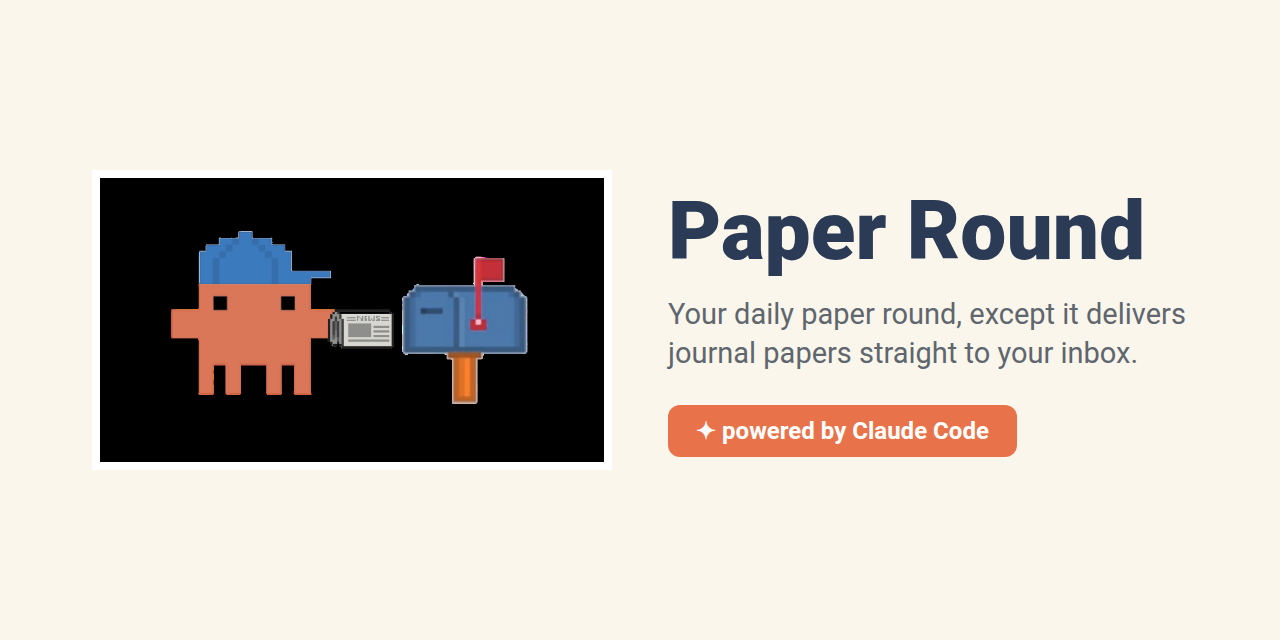
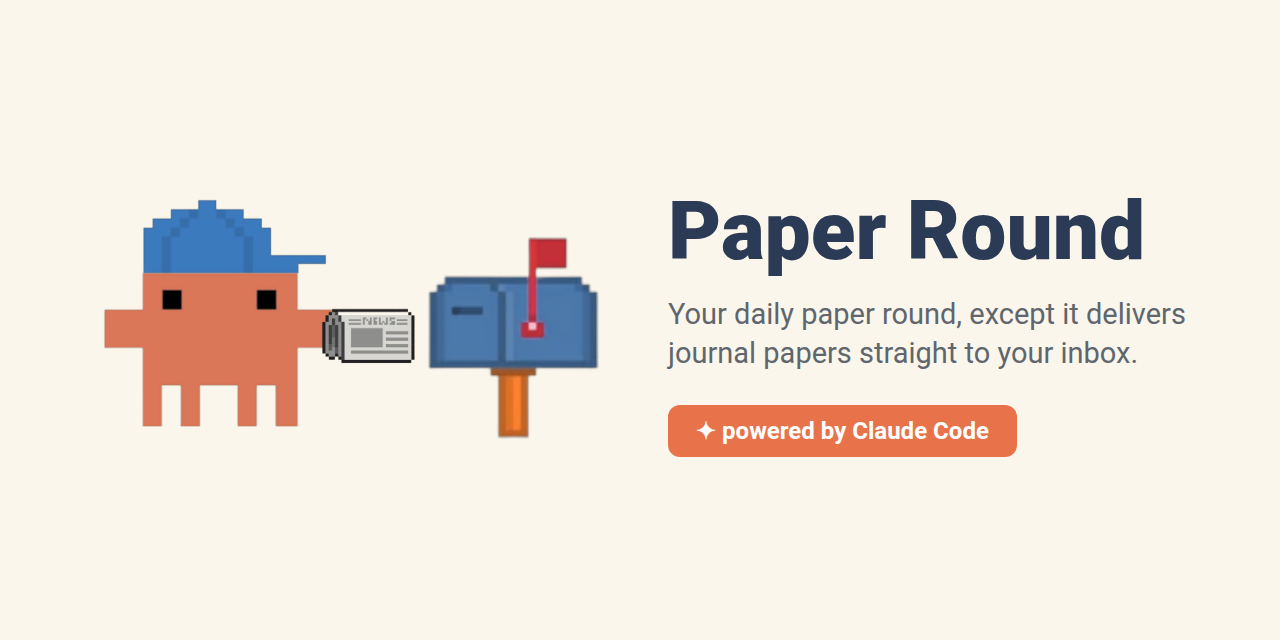
Preserve Clawd transparency

Changed region(s): [[0.0625, 0.2812, 0.4688, 0.7188]]

diff --git a/README.md b/README.md
@@ -1,5 +1,5 @@
 <div align="center">
-<img src="assets/clawd-delivery.png" alt="Clawd delivering the paper round" width="360">
+<img src="assets/clawd.png" alt="Clawd delivering the paper round" width="360">
 <h1>Paper Round</h1>
 <p>
 <a href="https://claude.com/product/claude-code"><img src="https://img.shields.io/badge/powered_by-Claude_Code-D97757?logo=claude&logoColor=white" alt="powered by Claude Code"></a>